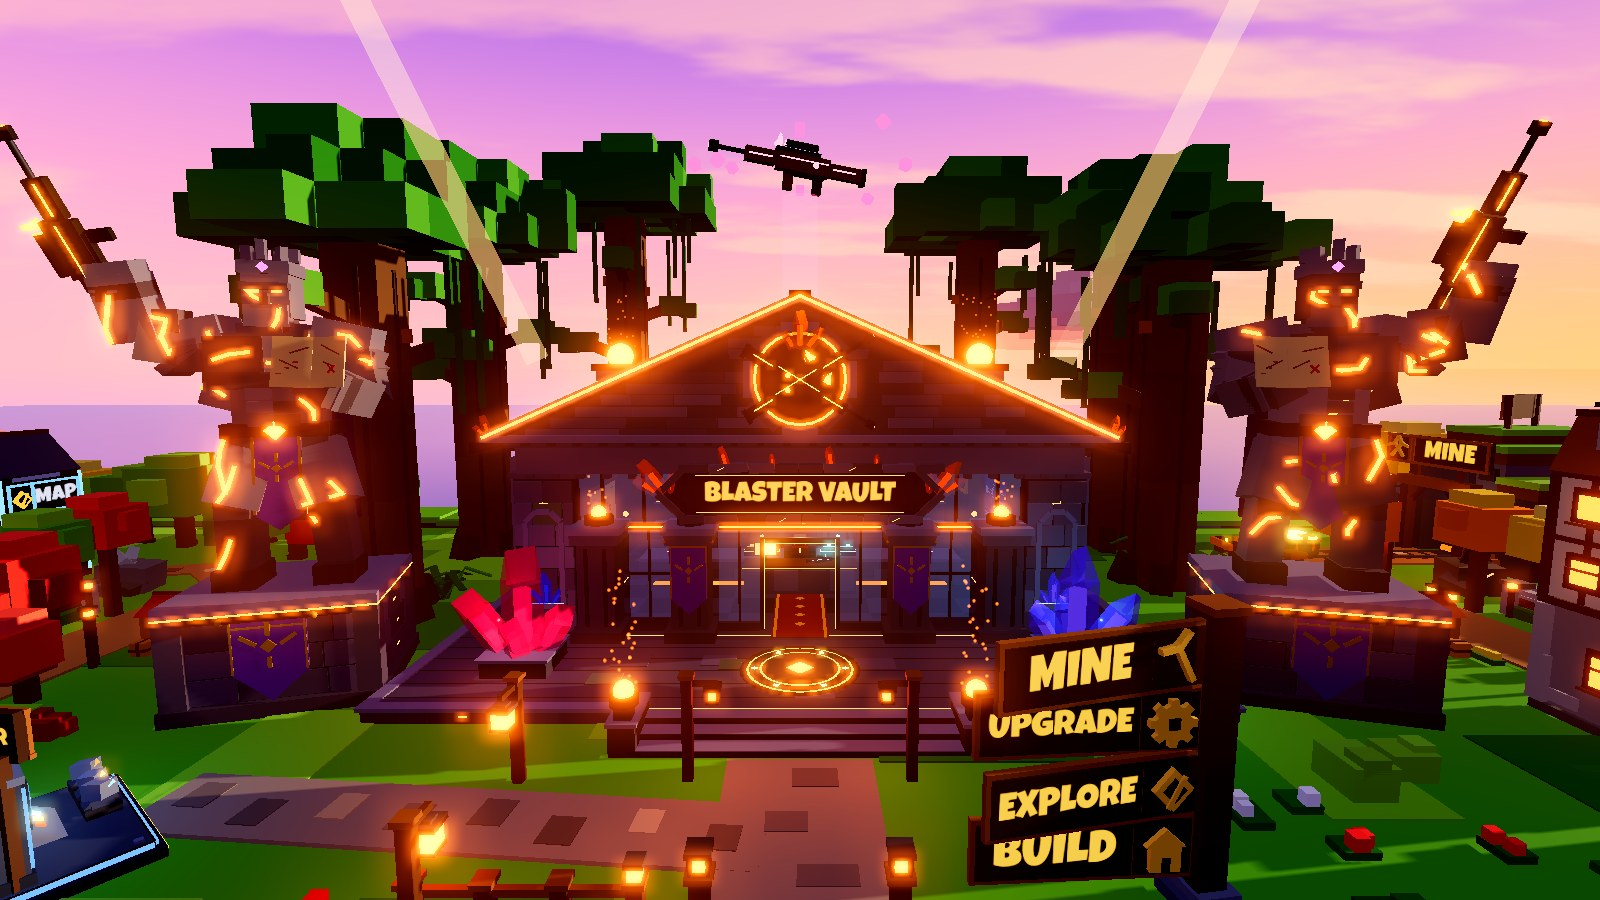
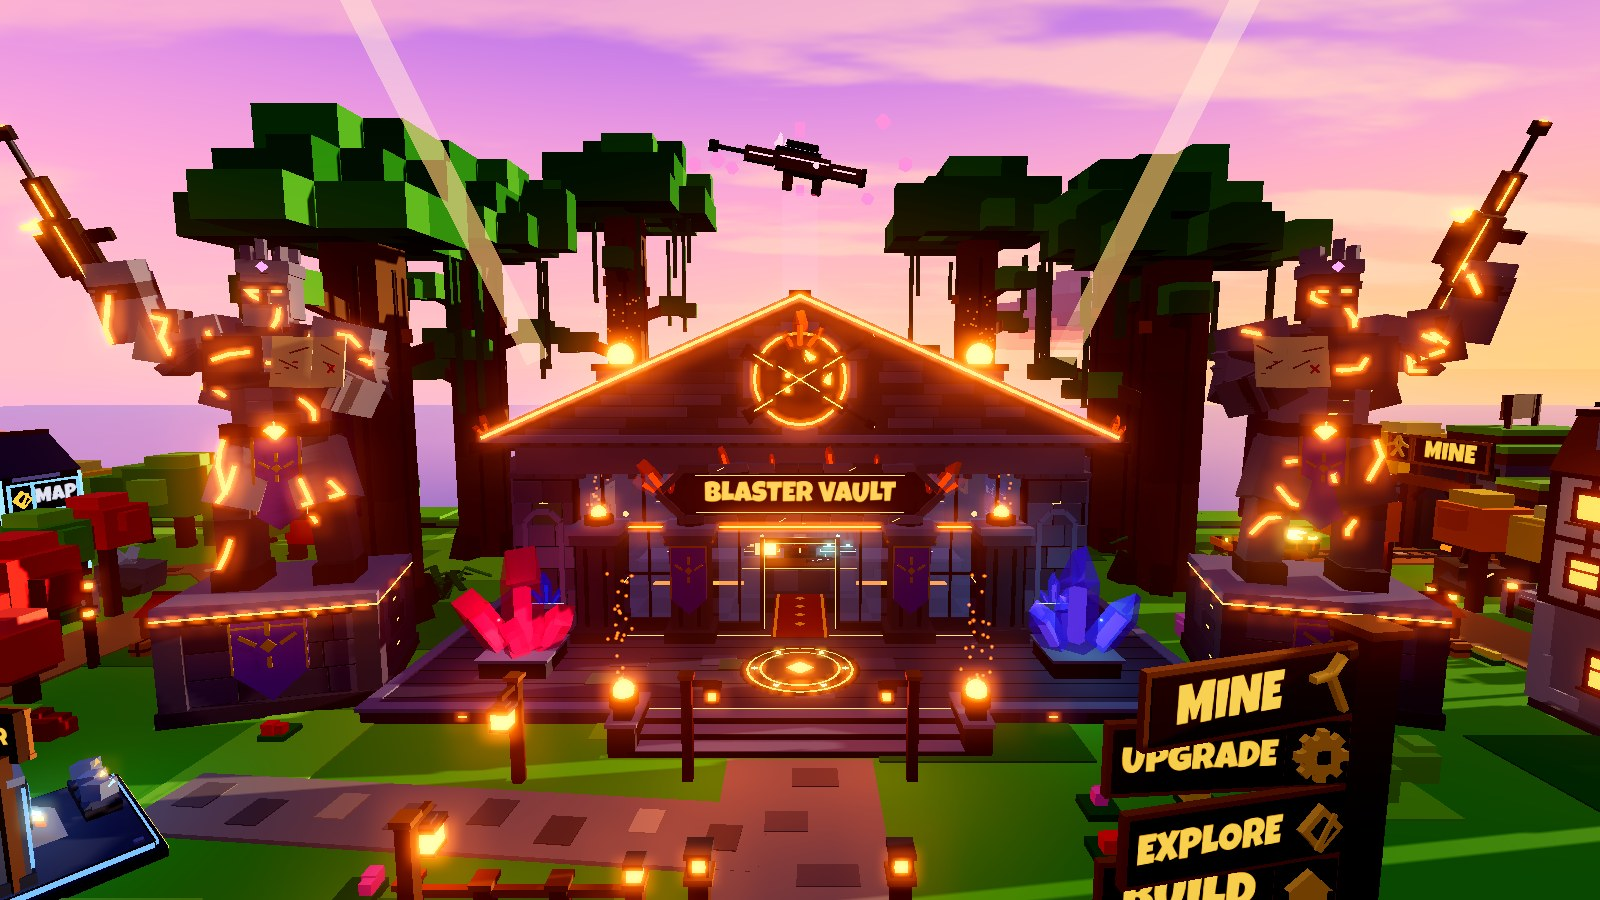
Lobby vault fix round 2: symmetric hero over the vault, signpost off the vault view, plan rows
- lobby_hero (0, 135, 255) -> (4, 12, -28): the back gable centred between the back jungle
  trees, the MINE portal, boards and gold carts bottom left
- Signpost to (-20, 0, 62) on the koi pond's south-west bank: the vault's steps read in lobby_vault
- LOBBY_PLAN: hero row, Signpost and RedTree rows match LobbyLayout, budget numbers after the merge
- docs/screenshots: lobby_hero, lobby_spawn, lobby_vault re-rendered

diff --git a/docs/plans/LOBBY_PLAN.md b/docs/plans/LOBBY_PLAN.md
@@ -21,8 +21,8 @@ The build is split into **six packages** (Sky, Backdrop, Plaza, Districts, Flora
   15.4 x 45 x 13.4 (the pedestals) turned (+-0.296, 0, -0.955) to the plaza, and the reservations `VaultTree1..6`
   (`Reserve = true`, Radius = the canopy: they keep the scatter and the town buildings away, may overlap their own
   package's pieces; the package places the trees as offsets from the vault). Budget 3500 parts / 6 lights
-  (~2970 / 5 built); lobby lights 40 / 45. MapParts 17500 (tests/LobbyBudget.spec.luau: the built map, ~15,800
-  parts, + one ore node on every node spawn, ~1,320, must stay 200 under it; ~170 parts of headroom), LobbyParts
+  (~2970 / 5 built); lobby lights 40 / 45. MapParts 17500 (tests/LobbyBudget.spec.luau: the built map, ~15,790
+  parts, + one ore node on every node spawn, ~1,320, must stay 200 under it; ~190 parts of headroom), LobbyParts
   11400 (~11,200 built: ~200 parts of deliberate buffer for small merges from the parallel package sessions).
   Moved for it: the south road (WorldLayout) now ends at the vault's steps (z 74, its strip at z 79); the **MINE**
   (`MineEntrance` + `MineYard`, Backdrop) went to the south-west corner past the west plot road's end, at
@@ -131,8 +131,8 @@ lines the plot roads with trees.
 
 | Shot | Camera -> target (fov) | Purpose |
 |---|---|---|
-| `lobby_hero` | (-40, 122, 252) -> (2, 10, -26) (50) | **The concept angle** (Blaster Vault, 2026-10-17): elevated from far south-south-west, a 3/4 view over the vault (its back gable, pillars and lit windows, the hologram over the ridge) and its jungle trees in the foreground, the two MINE boards bottom left, the MAP / WORKS hamlet bottom right, the plaza with the fire crystal, SHOP / SPIN & WIN left, UPGRADES / FOSSIL DIG right, THE GREAT FORGE in the middle, the massif with DEPTHS, THE FORGE, waterfalls and crystals filling the upper middle, the violet gas giant wholly in the top-right sky (tests/LobbySky.spec.luau). **No longer in the hero, on purpose:** the ROCK SCANNER, the creek bridge and the koi pond stand north of the vault, hidden by the vault, `VaultTree5` and the east statue from every camera south of the island; do not move the hero camera to bring them back (`lobby_south`, `lobby_vault` and `d_scanner` show them). |
-| `lobby_vault` | (0, 27, 32) -> (0, 18, 112) (64) | From the plaza's south rim over the bridge to the BLASTER VAULT (like the owner's render): the glass front with its sign, the hologram, both statues whole with their raised blasters and the jungle trees, the signpost bottom right, the MINE board right, the MAP house left; nothing in front of the doors. |
+| `lobby_hero` | (0, 135, 255) -> (4, 12, -28) (50) | **The concept angle** (Blaster Vault, 2026-10-17): elevated from far south, a symmetric view over the vault's back gable (rose window, lit windows, the hologram over the ridge) centred between the two back jungle trees, the searchlight beams forming a V around the plaza; the **MINE** portal, both MINE boards and the glowing gold carts bottom left with the autumn woods west of it, the MAP / WORKS hamlet bottom right, the plaza with the fire crystal, SHOP / SPIN & WIN left, UPGRADES / FOSSIL DIG right, THE GREAT FORGE in the middle, the massif with DEPTHS, THE FORGE, waterfalls and crystals filling the upper middle, the violet gas giant wholly in the top-right sky and both horizon cloud banks whole (tests/LobbySky.spec.luau). **No longer in the hero, on purpose:** the ROCK SCANNER, the creek bridge and the koi pond stand north of the vault, hidden by the vault, `VaultTree5` and the east statue from every camera south of the island; do not move the hero camera to bring them back (`lobby_south`, `lobby_vault` and `d_scanner` show them). |
+| `lobby_vault` | (0, 27, 32) -> (0, 18, 112) (64) | From the plaza's south rim over the bridge to the BLASTER VAULT (like the owner's render): the glass front with its sign, the hologram, both statues whole with their raised blasters and the jungle trees, the signpost (on the koi pond's south-west bank, clear of the steps) bottom right, the MINE board right, the MAP house left; nothing in front of the doors. |
 | `lobby_spawn` | (0, 13, 58) -> (-4, 7, -50) (62) | What a new player sees: fire crystal, Great Forge, SHOP left, UPGRADES right, mountain and portal above the roof. |
 | `lobby_west` | (14, 20, 26) -> (-62, 8, -40) (65) | Toward the sunset: SHOP, SPIN & WIN, NW cliff and waterfall, sea, ships, pier, sun glitter. |
 | `lobby_east` | (-14, 16, 36) -> (64, 6, -6) (65) | UPGRADES, FOSSIL DIG, ROCK SCANNER, pink grove, NEXT AREA in the distance. |
@@ -207,11 +207,11 @@ piece's front (LookVector). Build inside your footprint and height budget.
 | koi pond (center front) | KoiPond | (26, 0, 62) | 24 x 2 x 14 | S | koi, stepping stones |
 | creek under the bridge | Creek | (0, 0, 62) | 28 x 1 x 6 | S | joins the ponds |
 | arched wooden bridge | CreekBridge | (0, 0, 62) | 12 x 5 x 16 | S | carries the south road |
-| MINE / UPGRADE / EXPLORE / BUILD signpost | Signpost | (-14, 0, 46) | 7 x 10 x 3 | (0.52, 0, 0.86) | double-sided, icons |
+| MINE / UPGRADE / EXPLORE / BUILD signpost | Signpost | (-20, 0, 62) | 14 x 17 x 4 | (0.16, 0, 0.99) | double-sided, icons; the koi pond's south-west bank, west of the bridge (clear of the plaza-to-vault view of the steps) |
 | NEXT AREA sign | NextArea | (150, 0, -120) | 14 x 12 x 4 | S | arrow east, closed gate |
 | boardwalk to the next area | NextAreaBoardwalk | (205, 0, -112) | 8 x 3 x 70 | E | out over the sea to NextIsland |
 | pink cherry trees (right of forge) | PinkGrove | (41, 0, -66) | r 9, h 22 | - | two hero trees |
-| big red tree (foreground right) | RedTree | (28, 0, 40) | r 6, h 18 | - | hero tree |
+| big red tree (east town edge) | RedTree | (59, 0, 80) | r 6, h 18 | - | joins the east tree belt, off the camera-to-dig line |
 | yellow/orange trees (foreground left) | AutumnCorner | (-139, 0, 130) | r 12, h 18 | - | cluster behind the MINE hill |
 | colorful voxel trees, flowers, fences, lanterns | rule | - | - | - | scatter with `LobbyLayout.isFree` |
 | town buildings | rule (Flora/Town.luau `Sites`) | - | - | - | west street (CARTS, Lodge, TOOLS, RowCottage), INN and ORE behind UPGRADES, the south-east hamlet (MAP, WORKS, garden cottage) |
@@ -588,8 +588,8 @@ reservations in LobbyLayout in step when the trees move). Hooks: `VaultCounter` 
 counter top), `LightingZone` (Preset VaultInterior) over the inside.
 
 Budget: 3500 parts, 6 lights (both in the lobby area), <= 12 particle emitters (~2970 parts
-and 5 lights built). Shots: `lobby_vault`, `lobby_south` (and `lobby_hero` for the 3/4 view
-of its back). Done when the vault reads like the owner's render from the plaza: both statues
+and 5 lights built). Shots: `lobby_vault`, `lobby_south` (and `lobby_hero` for the symmetric
+view over its back gable). Done when the vault reads like the owner's render from the plaza: both statues
 whole with their blasters, the sign and the glass front, nothing in front of the doors.
 
 ## 7. Integration
